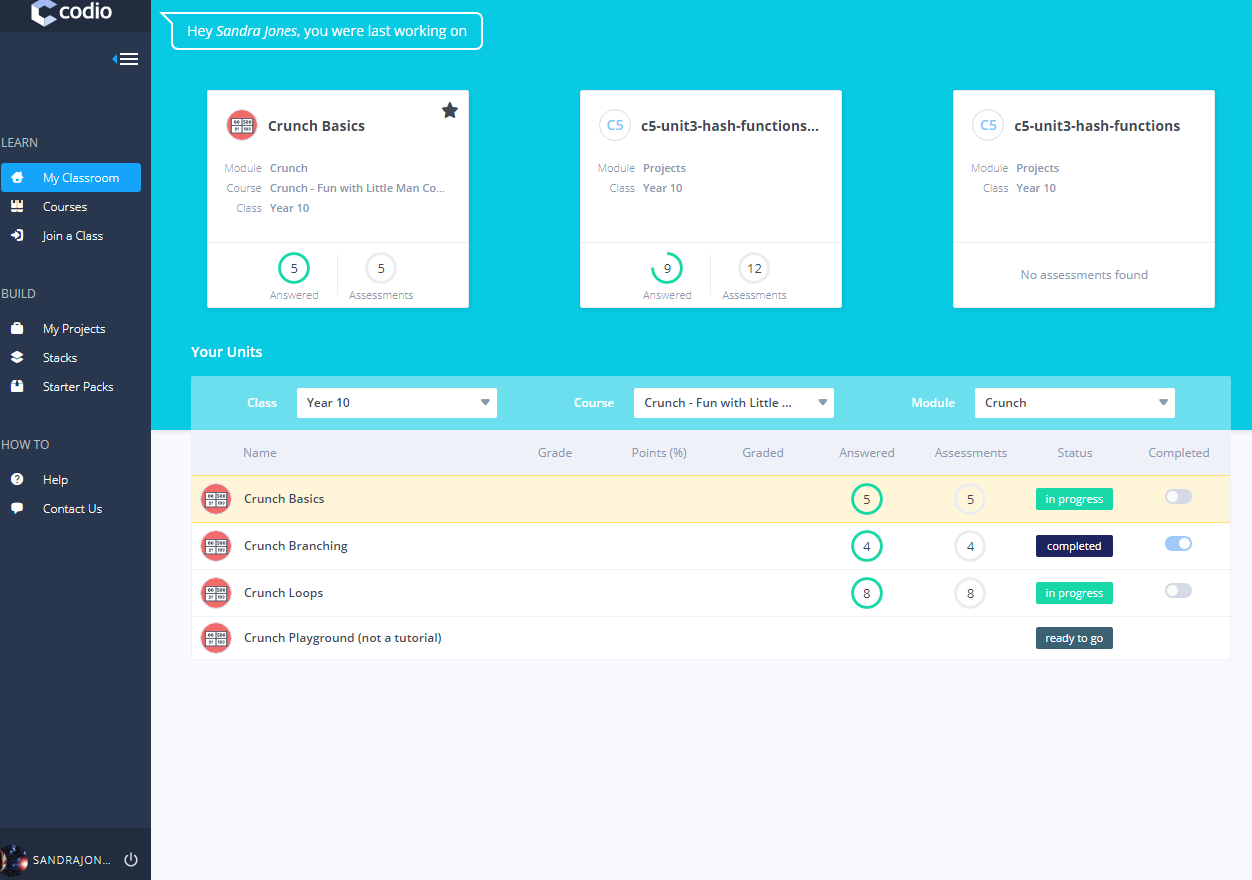
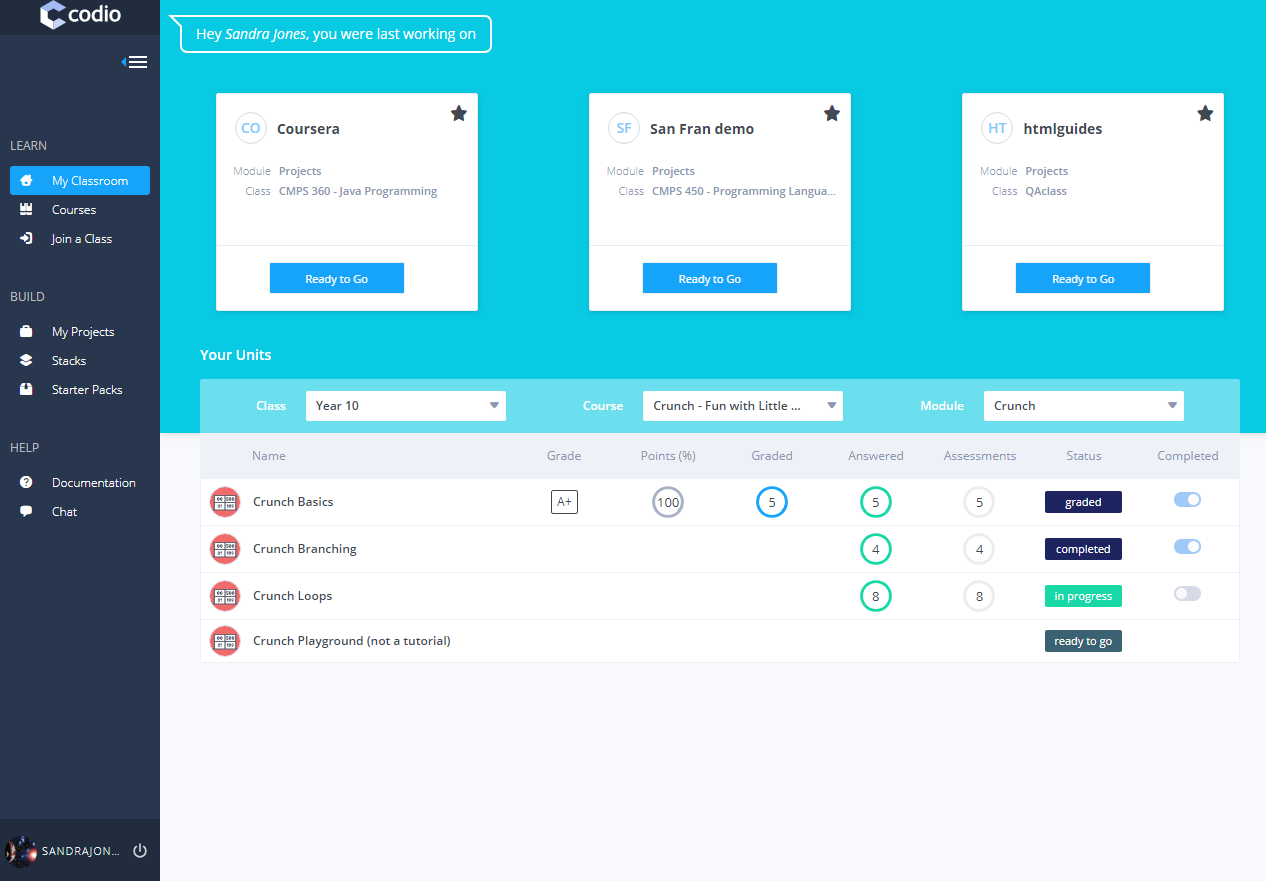
changelog #9944 #10303 #10300 #10325

diff --git a/source/docs/dashboard/navigation.html.md b/source/docs/dashboard/navigation.html.md
@@ -16,10 +16,10 @@ Here are the main options from the dashboard.
 
 - **Classes**: this is where you administer classes and assign projects and courses to students. [About classes](/docs/classes).
 - **Courses**: courses are teaching materials that are nicely organized for repeated teaching of content from semester to semester (or term to term, year to year). Course Units can be single Codio projects or a mapping to a part of a Codio book. [About courses](/docs/courses/introduction/).
-- **Books**: books lets you build a complete book, with chapters, sections and pages that can be nested to any depth to form a table of contents and associated content that mirrors a normal book structure. Parts of a book can then be mapped to course units for class assignments. [About books](/docs/books)
 - **My Projects**: a project is a cloud based server with the Codio IDE attached. It is a great place to experiment. You can create as many as you like and configure you server (box) from the command line exactly as you would with any other server. [About projects](/docs/project/what-is-a-project).
+- **My Books**: books lets you build a complete book, with chapters, sections and pages that can be nested to any depth to form a table of contents and associated content that mirrors a normal book structure. Parts of a book can then be mapped to course units for class assignments. [About books](/docs/books)
 - **Stacks**: Stacks are templated snapshots of a project's software configuration and are a very important and powerful feature of Codio. If you are assigning content to classes of students, it is very important you have a full understanding of stacks. [About stacks](/docs/project/stacks/stack-overview).
 - **Starter Packs**: a Starter Pack is a templated snapshot of a project's code workspace. Additionally a stack is specified. The result is an instantly startable snapshot of a fully configured environment. [About starter packs](/docs/project/packs/overview).
-- **Help**: a link to the general document. [Documentation link](/docs).
-- **Contact Us**: this is our integrated support environment. If you need assistance from us, click here to leave us a detailed message and we will get back to you quickly.  
+- **Dcoumentation**: a link to the general document. [Documentation link](/docs).
+- **Chat**: this is our integrated support environment. If you need assistance from us, click here to leave us a detailed message and we will get back to you quickly.  
 

diff --git a/source/docs/misc/changelog.html.md b/source/docs/misc/changelog.html.md
@@ -13,6 +13,10 @@ We do not report small bug fixes or issues that affect individual users, who we 
 
 **March 2019**
 
+- `[I] [26th]`: Update messaging to students marking units as completed
+- `[I] [26th]`: Minor [dashboard](/docs/dashboard/navigation/) text changes
+- `[I] [22nd]`: Fix problem with handling of read only projects where external services are used (e.g. Jupyter/RStudio)
+- `[I] [21st]`: Fix problem with storage of guides layout settings in units
 - `[I] [20th]`: Improve handling of adding teachers to class
 - `[I] [19th]`: Fix problem with teachers not able to access students projects after deadline passed
 - `[I] [15th]`: Fix problem for student feedback when unit running in iFrame
